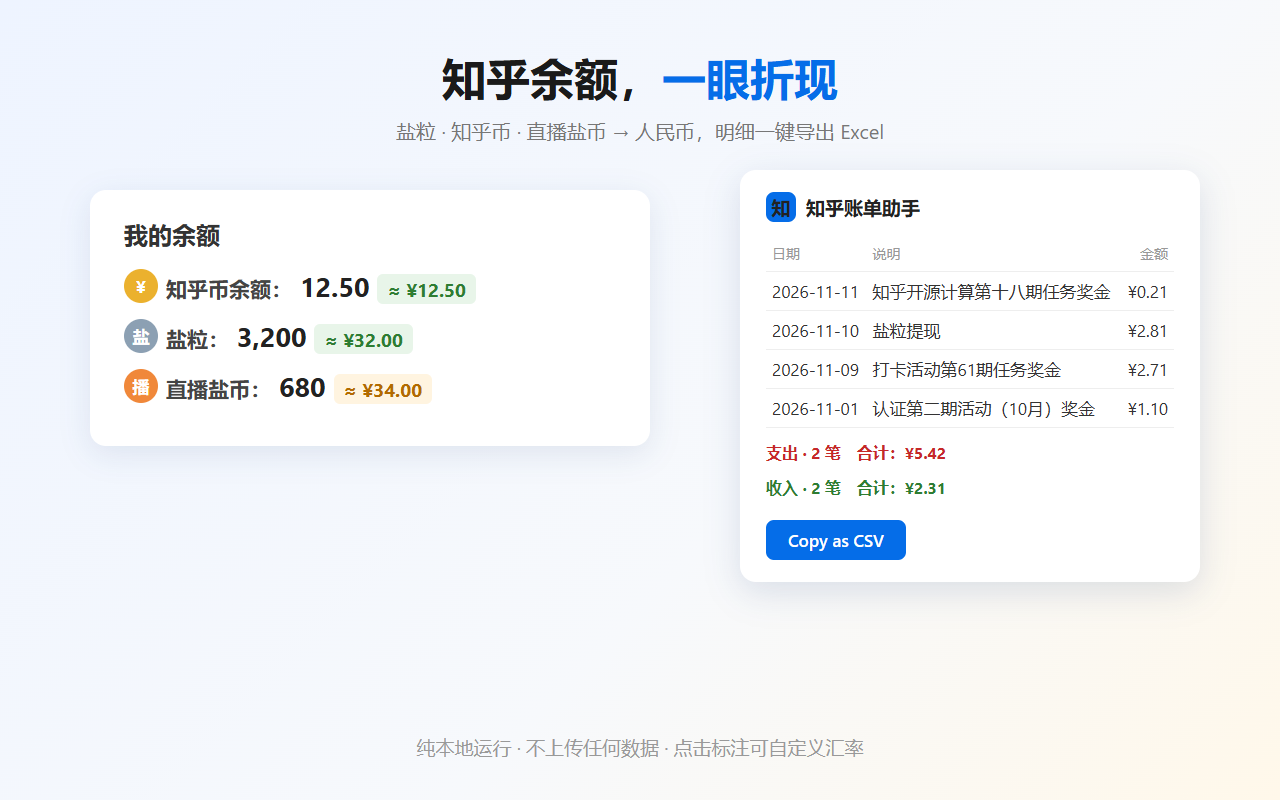
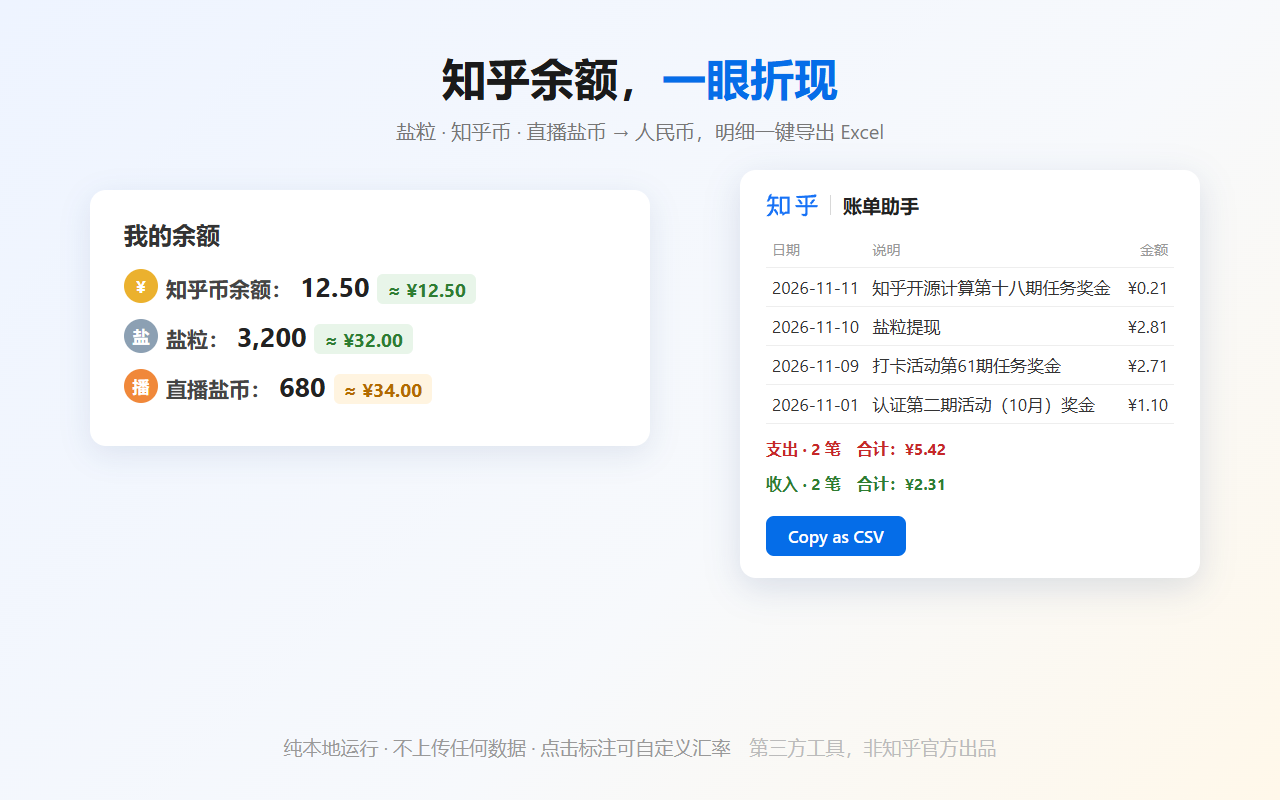
Use official Zhihu wordmark in store screenshot; add non-affiliation disclaimer

diff --git a/store/shot-src.html b/store/shot-src.html
@@ -31,9 +31,8 @@
     /* 右侧：扩展侧边栏 */
     .panel { position: absolute; top: 170px; right: 80px; width: 460px; background: #fff; border-radius: 16px;
              box-shadow: 0 10px 34px rgba(20, 60, 120, .14); padding: 22px 26px; }
-    .panel .head { display: flex; align-items: center; gap: 10px; margin-bottom: 14px; }
-    .panel .logo { width: 30px; height: 30px; border-radius: 8px; background: #056de8; color: #fff; display: flex;
-                   align-items: center; justify-content: center; font-weight: 800; font-size: 16px; }
+    .panel .head { display: flex; align-items: center; gap: 12px; margin-bottom: 14px; }
+    .panel .head .divider { width: 1px; height: 20px; background: #d8d8d8; }
     .panel .head span { font-size: 19px; font-weight: 700; color: #222; }
     table { width: 100%; border-collapse: collapse; font-size: 17px; }
     th, td { padding: 8px 6px; text-align: left; border-bottom: 1px solid #eee; color: #333; }
@@ -59,8 +58,12 @@
     <div class="row"><span class="icon live">播</span><span class="label">直播盐币：</span><span class="num">680</span><span class="badge warn">≈ ¥34.00</span></div>
   </div>
 
-  <div class="panel">
-    <div class="head"><span class="logo">知</span><span>知乎账单助手</span></div>
+    <div class="panel">
+      <div class="head">
+        <svg viewBox="0 0 64 30" width="52" height="24" fill="#1772F6" xmlns="http://www.w3.org/2000/svg"><path d="M29.05 4.582H16.733V25.94h3.018l.403 2.572 4.081-2.572h4.815V4.582zm-5.207 18.69l-2.396 1.509-.235-1.508h-1.724V7.233h6.78v16.04h-2.425zM14.46 14.191H9.982c0-.471.033-.954.039-1.458v-5.5h5.106V5.935a1.352 1.352 0 0 0-.404-.957 1.378 1.378 0 0 0-.968-.396H5.783c.028-.088.056-.177.084-.255.274-.82 1.153-3.326 1.153-3.326a4.262 4.262 0 0 0-2.413.698c-.57.4-.912.682-1.371 1.946-.532 1.453-.997 2.856-1.31 3.693C1.444 8.674.28 11.025.28 11.025a5.85 5.85 0 0 0 2.52-.61c1.119-.593 1.679-1.502 2.054-2.883l.09-.3h2.334v5.5c0 .5-.045.982-.073 1.46h-4.12c-.71 0-1.39.278-1.893.775a2.638 2.638 0 0 0-.783 1.874h6.527a17.717 17.717 0 0 1-.778 3.649 16.796 16.796 0 0 1-3.012 5.273A33.104 33.104 0 0 1 0 28.74s3.13 1.175 5.425-.954c1.388-1.292 2.631-3.814 3.23-5.727a28.09 28.09 0 0 0 1.12-5.229h5.967v-1.37a1.254 1.254 0 0 0-.373-.899 1.279 1.279 0 0 0-.909-.37z"></path><path d="M11.27 19.675l-2.312 1.491 5.038 7.458a6.905 6.905 0 0 0 .672-2.218 3.15 3.15 0 0 0-.28-2.168l-3.118-4.563zM51.449 15.195V5.842c4.181-.205 7.988-.405 9.438-.483l.851-.05c.387-.399.885-2.395.689-3.021-.073-.25-.213-.666-.638-.555a33.279 33.279 0 0 1-4.277.727c-2.766.321-3.97.404-7.804.682-6.718.487-12.709.72-12.709.72a2.518 2.518 0 0 0 .788 1.834 2.567 2.567 0 0 0 1.883.706c2.278-.095 5.598-.25 8.996-.41v9.203h-12.78c0 .703.281 1.377.783 1.874a2.69 2.69 0 0 0 1.892.777h10.105v7.075c0 .887-.464 1.192-1.231 1.214h-3.92a4.15 4.15 0 0 0 .837 1.544 4.2 4.2 0 0 0 1.403 1.067 6.215 6.215 0 0 0 2.71.277c1.36-.066 2.967-.826 2.967-3.57v-7.607h11.28c.342 0 .67-.135.91-.374.242-.239.378-.563.378-.902v-1.375H51.449z"></path><path d="M42.614 8.873a2.304 2.304 0 0 0-1.508-.926 2.334 2.334 0 0 0-1.727.405l-.376.272 4.255 5.85 2.24-1.62-2.884-3.98zM57.35 8.68l-3.125 4.097 2.24 1.663 4.517-5.927-.375-.277a2.32 2.32 0 0 0-1.722-.452 2.327 2.327 0 0 0-1.536.896z"></path></svg>
+        <span class="divider"></span>
+        <span>账单助手</span>
+      </div>
     <table>
       <tr><th>日期</th><th>说明</th><th class="r">金额</th></tr>
       <tr><td>2026-11-11</td><td>知乎开源计算第十八期任务奖金</td><td class="r">¥0.21</td></tr>
@@ -73,6 +76,6 @@
     <span class="btn">Copy as CSV</span>
   </div>
 
-  <div class="tagline">纯本地运行 · 不上传任何数据 · 点击标注可自定义汇率</div>
+  <div class="tagline">纯本地运行 · 不上传任何数据 · 点击标注可自定义汇率　<span style="color:#bbb">第三方工具，非知乎官方出品</span></div>
 </body>
 </html>

diff --git a/docs/chrome-store-listing.md b/docs/chrome-store-listing.md
@@ -41,6 +41,7 @@
 · 不需要知乎授权，只读取你已登录页面上的内容
 
 【免责】
+本扩展为第三方工具，非知乎官方出品，与知乎无隶属或合作关系；
 直播盐币汇率按公开资料估算，实际以知乎官方结算为准；
 知乎页面改版可能导致功能暂时失效，我们会持续更新。
 ```
